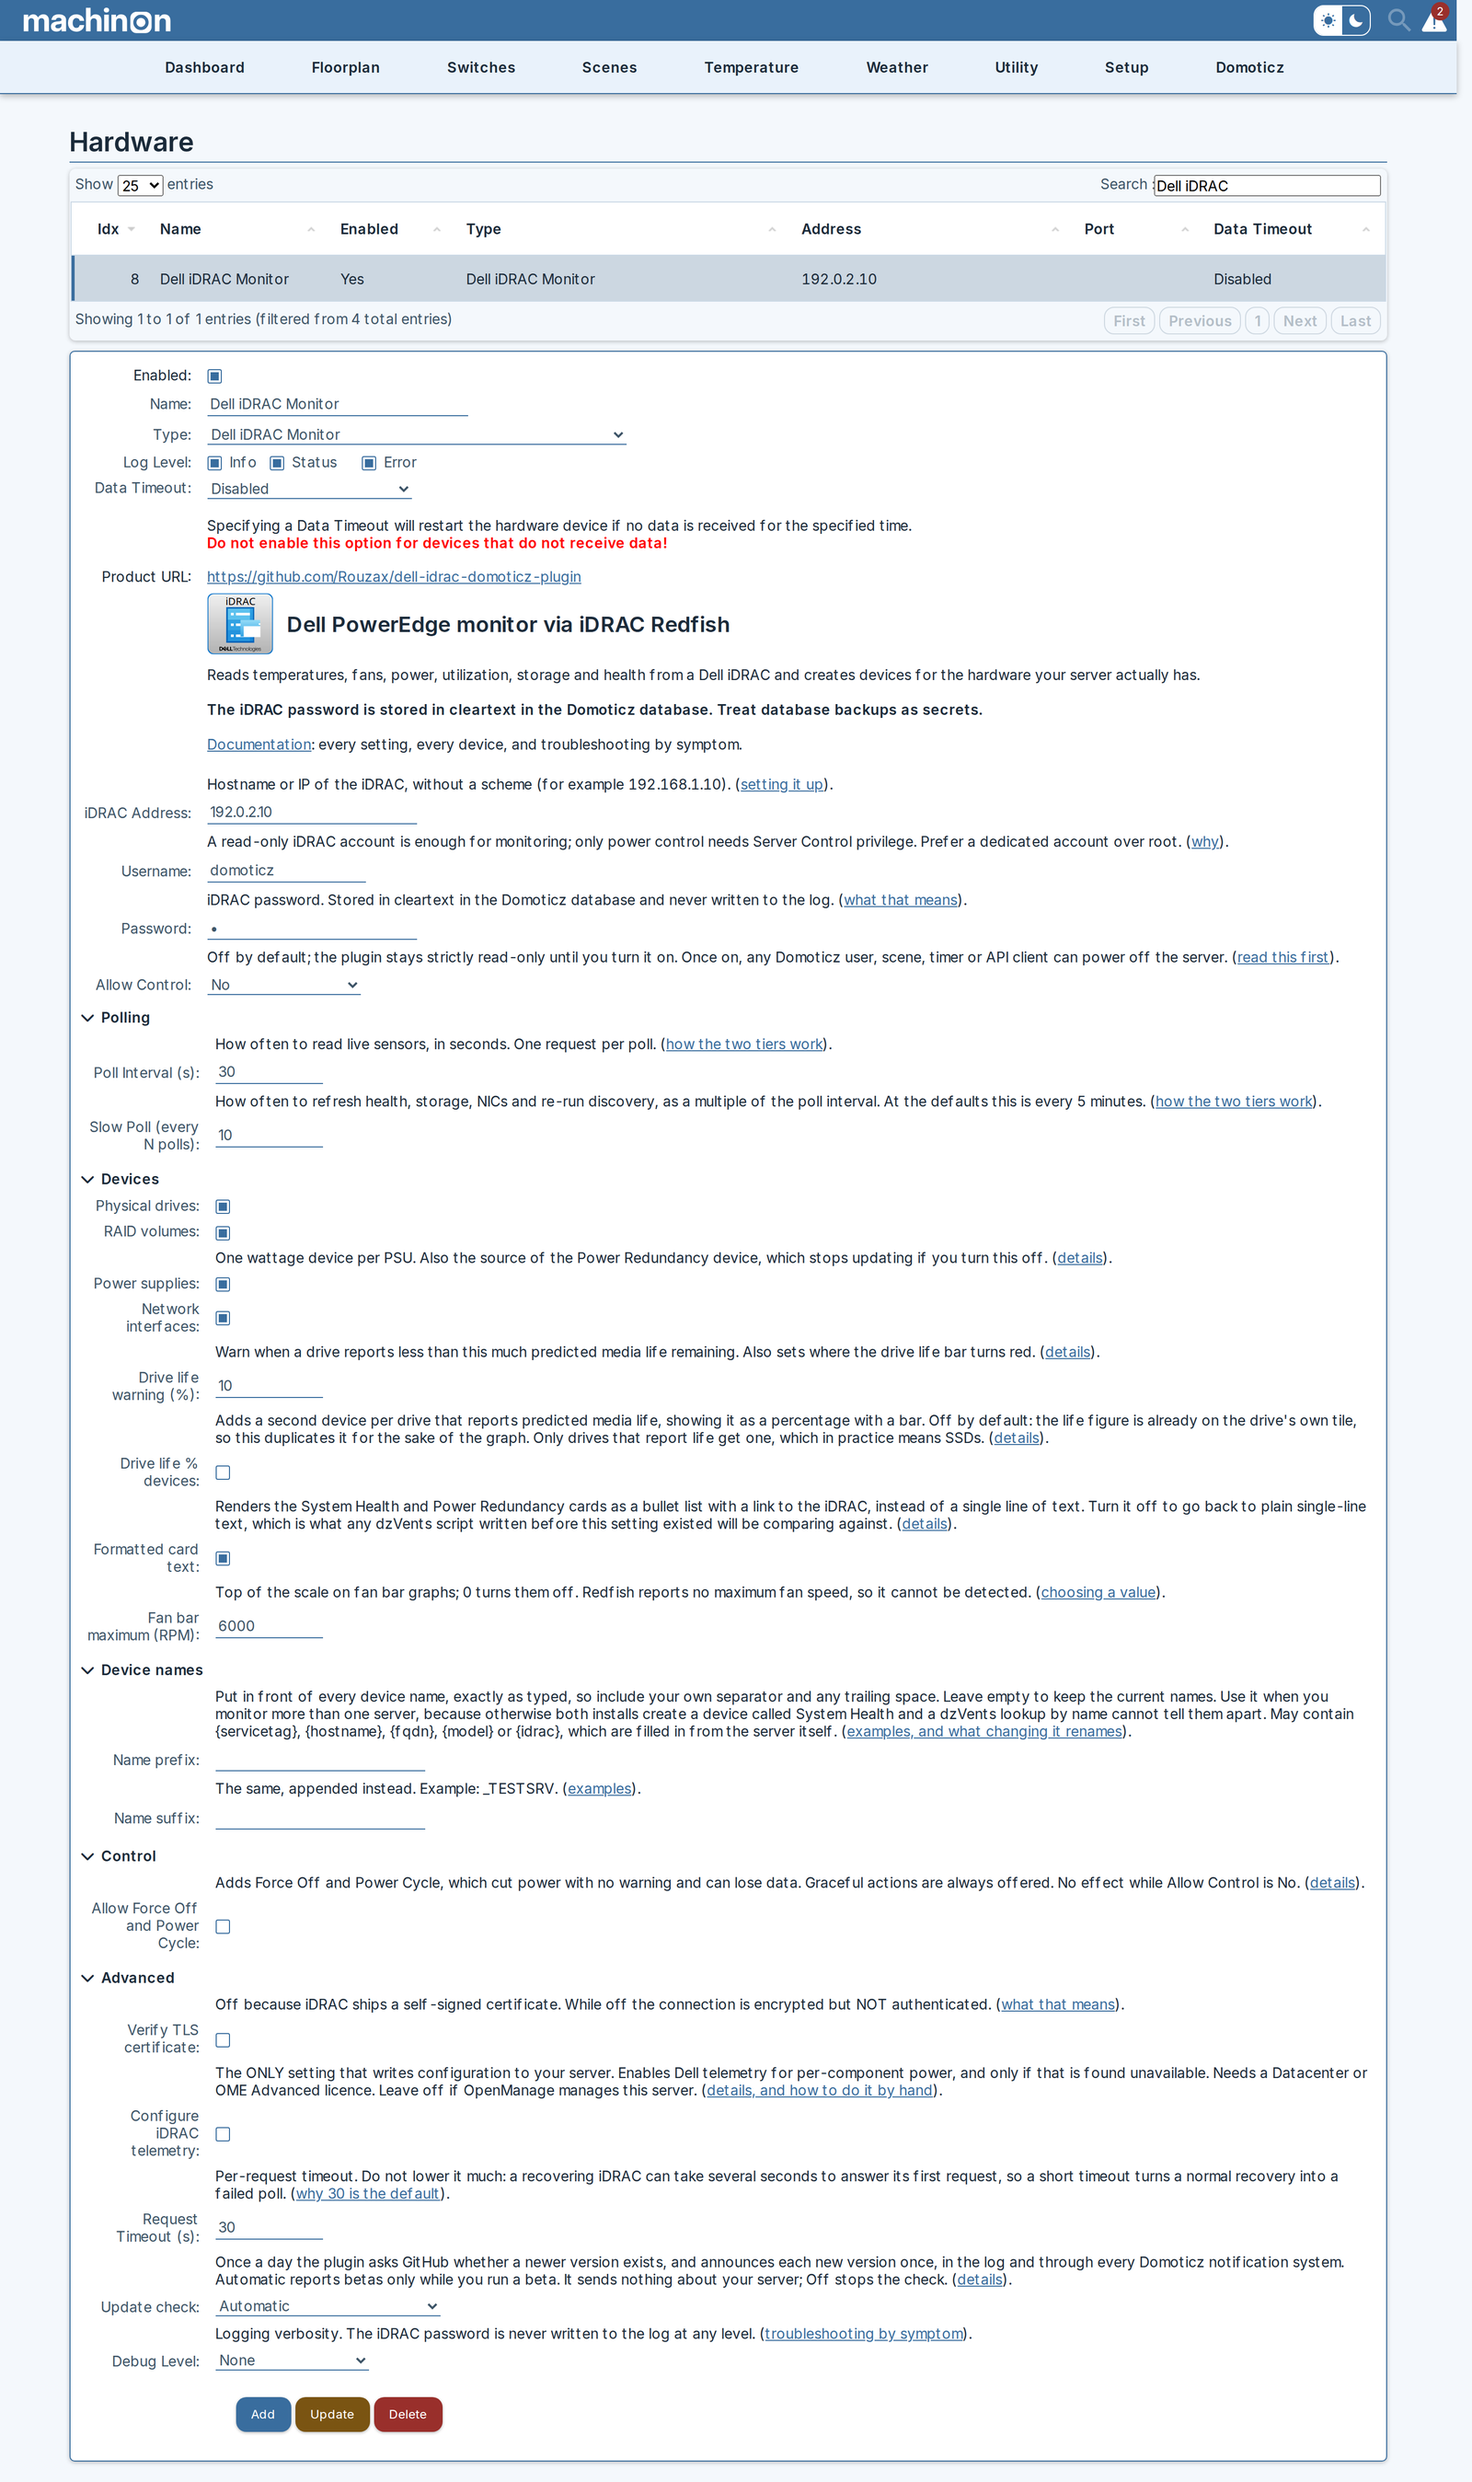
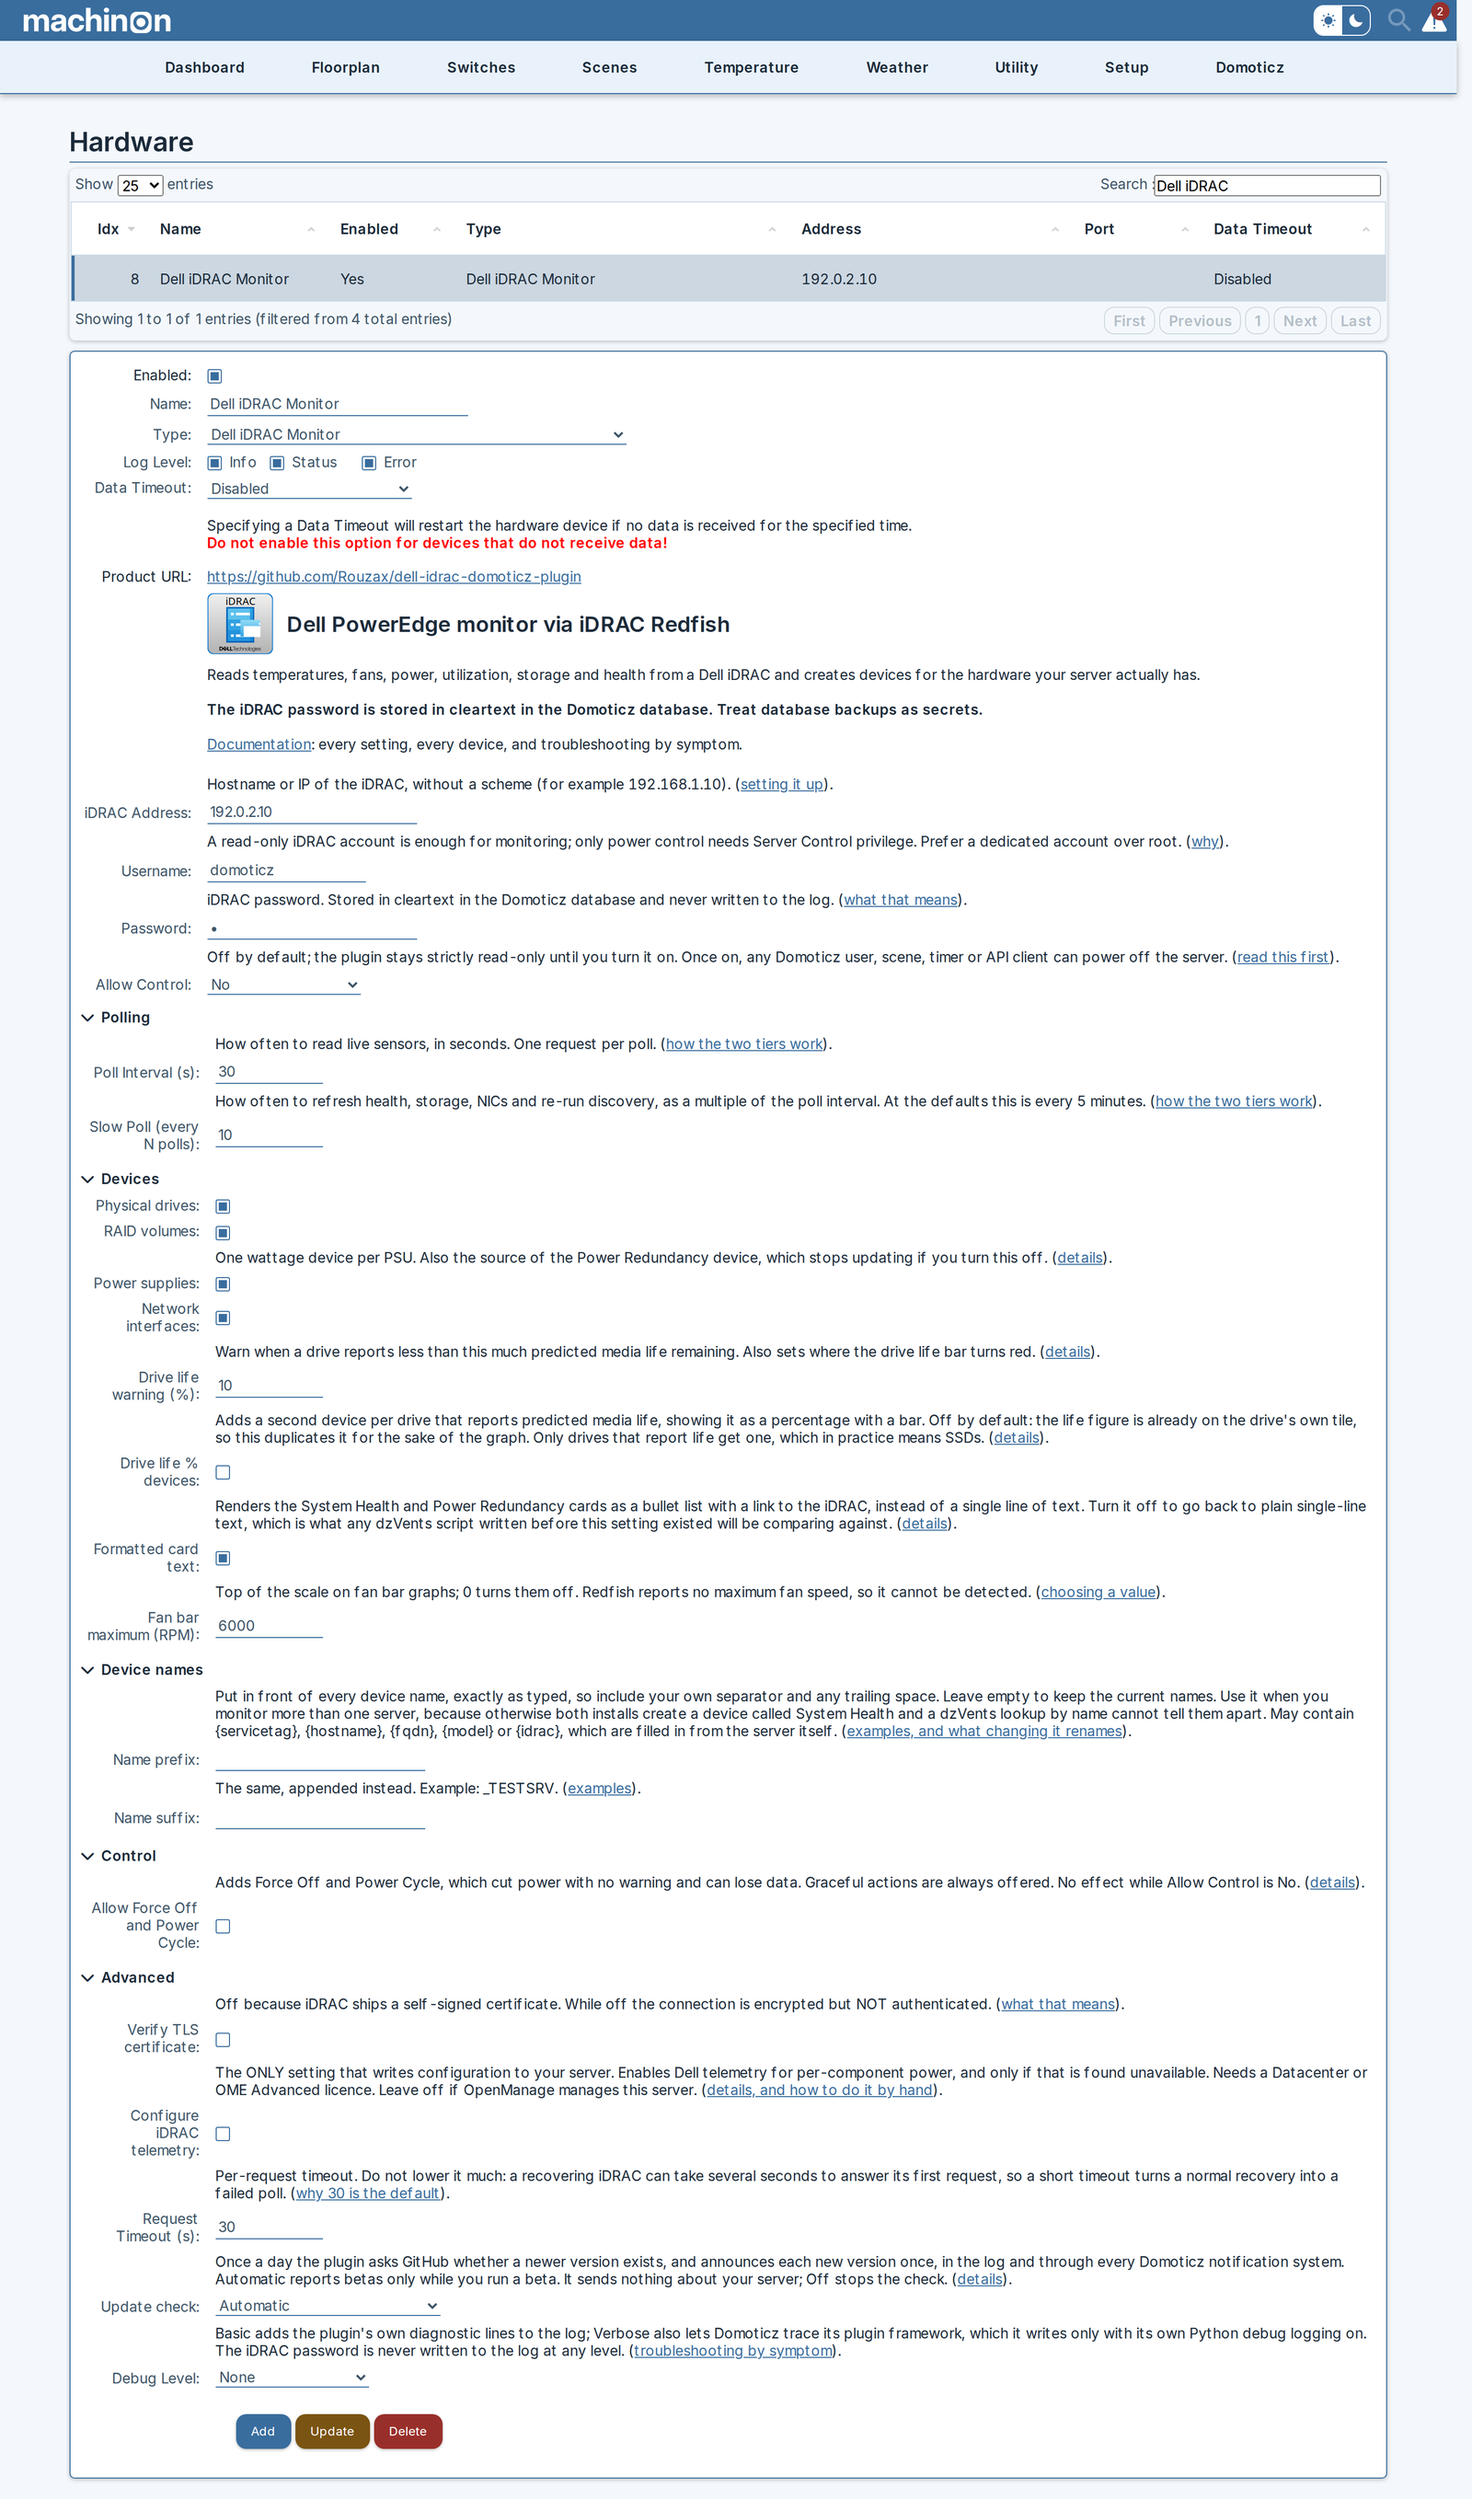
fix: make Debug Level Basic log the plugin's own debug lines
Basic set no Domoticz debug mask, so it logged exactly what None did.
It now sets PDM_PYTHON (2), which writes the plugin's Domoticz.Debug
lines at Info level; Verbose keeps passing 1, which Domoticz maps to
PDM_ALL and so adds the framework's queue and lock tracing whenever
Domoticz's own Python debug logging is on.

The settings page, README, manifest description and the update-check
FAQ entry now say what each level shows, that the lines need the
hardware's Info log level, and that they carry no "Debug:" prefix.

diff --git a/plugin.py b/plugin.py
@@ -93,7 +93,7 @@
                 </options>
             </param>
             <param field="DebugLevel" label="Debug Level" width="150px">
-                <description>Logging verbosity. The iDRAC password is never written to the log at any level. (<a href="https://rouzax.github.io/dell-idrac-domoticz-plugin/faq/" target="_blank">troubleshooting by symptom</a>).</description>
+                <description>Basic adds the plugin's own diagnostic lines to the log; Verbose also lets Domoticz trace its plugin framework, which it writes only with its own Python debug logging on. The iDRAC password is never written to the log at any level. (<a href="https://rouzax.github.io/dell-idrac-domoticz-plugin/faq/" target="_blank">troubleshooting by symptom</a>).</description>
                 <options>
                     <option label="None" value="0" default="true"/>
                     <option label="Basic" value="1"/>
@@ -124,6 +124,10 @@ import update_check
 _BACKOFF_INITIAL = 20.0
 _BACKOFF_CAP = 900.0
 _HEARTBEAT_SECONDS = 10
+# Domoticz.Debugging() masks (hardware/plugins/Plugins.h). Basic is the plugin's own Debug lines
+# only; Verbose adds the framework's device, connection and queue tracing. Domoticz maps 1 to
+# PDM_ALL, the value plugins have always passed, so it stays the safest choice for "everything".
+_DEBUG_MASKS = {1: 2, 2: 1}
 REPOSITORY = "Rouzax/dell-idrac-domoticz-plugin"
 
 
@@ -260,8 +264,8 @@ def onStart():
         _state.checker.stop()
     _state = _PluginState()
     _state.cfg = config.parse_config(Parameters)
-    if _state.cfg.debug_level >= 2:
-        Domoticz.Debugging(1)
+    if _state.cfg.debug_level in _DEBUG_MASKS:
+        Domoticz.Debugging(_DEBUG_MASKS[_state.cfg.debug_level])
     _state.dev_ids = {
         family: domoticz_api.device_id(Parameters["HardwareID"], family)
         for family in planner.DEVICE_FAMILIES

diff --git a/tests/test_plugin.py b/tests/test_plugin.py
@@ -1098,3 +1098,14 @@ def test_a_failing_announcement_never_stops_polling(checker_start, monkeypatch):
     plugin._state.beat = 100
     plugin.onHeartbeat()
     assert plugin._state.client.calls
+
+
+@pytest.mark.parametrize(("level", "mask"), [("0", None), ("1", 2), ("2", 1)])
+def test_each_debug_level_sets_its_own_domoticz_debug_mask(monkeypatch, domoticz, level, mask):
+    """Basic is PDM_PYTHON (the plugin's own Debug lines); Verbose is 1, which Domoticz maps to
+    PDM_ALL. None leaves the mask alone, so the stub's value stays unset."""
+    monkeypatch.setattr(domoticz, "_debugging", None, raising=False)
+    monkeypatch.setattr(plugin, "Parameters", {**_PARAMS, "DebugLevel": level}, raising=False)
+    monkeypatch.setattr(plugin, "Devices", domoticz_stub.Devices, raising=False)
+    plugin.onStart()
+    assert domoticz._debugging == mask

diff --git a/CHANGELOG.md b/CHANGELOG.md
@@ -4,6 +4,10 @@ All notable changes to this project are documented here. The format is based on 
 
 ## [Unreleased]
 
+### Fixed
+
+- **Debug Level `Basic` now adds detail to the log.** It used to log exactly what `None` logs, although the setting promised more. `Basic` now shows the plugin's own diagnostic lines, such as a resource it could not read or a fallback it took; `Verbose` keeps showing those plus Domoticz's plugin framework tracing, as before.
+
 ### Added
 
 - **An Update check setting**, on by default (`Automatic`). Once a day the plugin asks GitHub whether a newer version has been released, and announces each new version once: a Status line in the Domoticz log and one notification through every Domoticz notification system, linking to the release page. The notification needs Domoticz 2026.1 or newer; older builds get the log line only. `Automatic` reports betas only while you run a beta, `Stable releases only` and `Including betas` fix the choice, and `Off` stops the check. This is the plugin's first connection to anything other than your iDRAC: it reads the public release list from `api.github.com` and sends nothing about your server. A failed check is logged only at debug level and never affects monitoring. On an existing install the setting shows blank on the hardware page until you pick a value and press Update; blank means `Automatic`. Each hardware entry checks on its own, so with several iDRAC entries leave the check on for one and set the others to `Off`, or every release is announced once per entry. See [Update check](https://rouzax.github.io/dell-idrac-domoticz-plugin/settings/#update-check).

diff --git a/docs/settings.md b/docs/settings.md
@@ -177,7 +177,7 @@ This is inert while **Allow Control** is `No`: with control off, no control devi
 | **Configure iDRAC telemetry** | off | | Switches Dell telemetry on so per-component power devices can appear. The only setting that writes configuration to your server. See below. |
 | **Request Timeout (s)** | 30 | 5 to 120, step 5 | Per-request timeout. |
 | **Update check** | `Automatic` | | Once a day, asks GitHub whether a newer version exists and announces it. `Off` stops it. See below. |
-| **Debug Level** | `None` | | `Basic` and `Verbose` add detail to the Domoticz log. The password is never logged at any level. |
+| **Debug Level** | `None` | | `Basic` adds the plugin's own diagnostic lines to the Domoticz log, such as a resource it could not read or a fallback it took. They are written at Info level, so the hardware's **Log Level** must include Info, as it does by default. `Verbose` adds the same lines and also lets Domoticz trace the plugin framework itself (every heartbeat, queue message and lock), which Domoticz only writes while its own debug logging for Python is on (the `-debuglevel python` start-up option); without that, `Verbose` logs the same as `Basic`. The password is never logged at any level. |
 
 ### Configure iDRAC telemetry
 

diff --git a/README.md b/README.md
@@ -61,7 +61,7 @@ Devices appear after the first successful poll, which is one poll interval later
 | Configure iDRAC telemetry | off | The one setting that writes configuration to your server, to unlock per-component power. See [Per-component power](#per-component-power-needs-a-licence). |
 | Request Timeout (s) | 30 | Per-request timeout, 5 to 120. Do not lower it much; see [Troubleshooting](#troubleshooting). |
 | Update check | Automatic | Once a day, asks GitHub whether a newer version exists and announces each new one once, in the log and through your Domoticz notifications. `Automatic` reports betas only while you run a beta; `Off` stops it. See [Update check](https://rouzax.github.io/dell-idrac-domoticz-plugin/settings/#update-check). |
-| Debug Level | None | `Basic` and `Verbose` add detail to the Domoticz log. The password is never logged at any level. |
+| Debug Level | None | `Basic` adds the plugin's own diagnostic lines to the Domoticz log (needs the hardware's Info log level, on by default). `Verbose` also lets Domoticz trace its plugin framework, which it only writes with its own Python debug logging on. The password is never logged at any level. |
 
 Changing a setting restarts the plugin. Your devices and their history are kept.
 

diff --git a/docs/faq.md b/docs/faq.md
@@ -69,10 +69,10 @@ If the same notification arrived several times at once, you have several iDRAC h
 ### The debug log says the update check failed
 
 ```
-Debug: Dell iDRAC Monitor: update check failed: URLError
+Dell iDRAC Monitor: update check failed: URLError
 ```
 
-This line only appears with **Debug Level** set to `Verbose`. It means Domoticz could not reach `api.github.com`, usually because it has no internet access, or DNS, a proxy or a firewall is in the way. It is harmless: monitoring is not affected, and the check simply tries again a day later. On a network where Domoticz is deliberately kept offline, set **Update check** to `Off` and the plugin never tries.
+This line only appears with **Debug Level** set to `Basic` or `Verbose`, and is written at Info level, without a `Debug:` prefix. It means Domoticz could not reach `api.github.com`, usually because it has no internet access, or DNS, a proxy or a firewall is in the way. It is harmless: monitoring is not affected, and the check simply tries again a day later. On a network where Domoticz is deliberately kept offline, set **Update check** to `Off` and the plugin never tries.
 
 ### The log says the plugin thread ended unexpectedly
 
